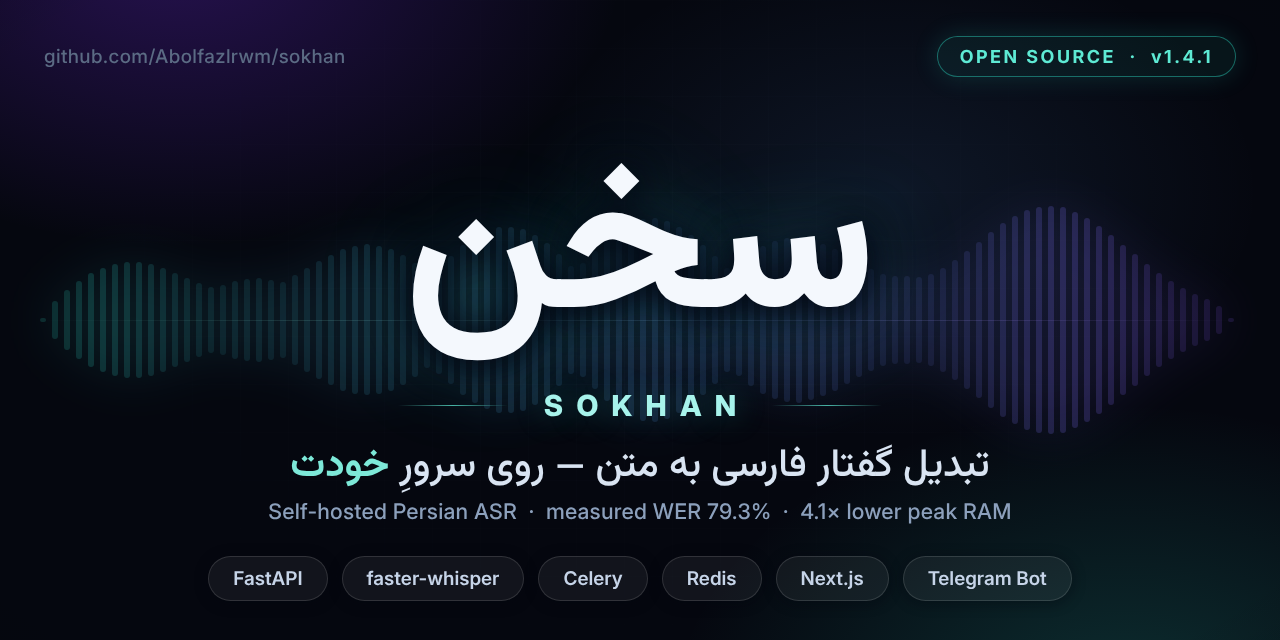
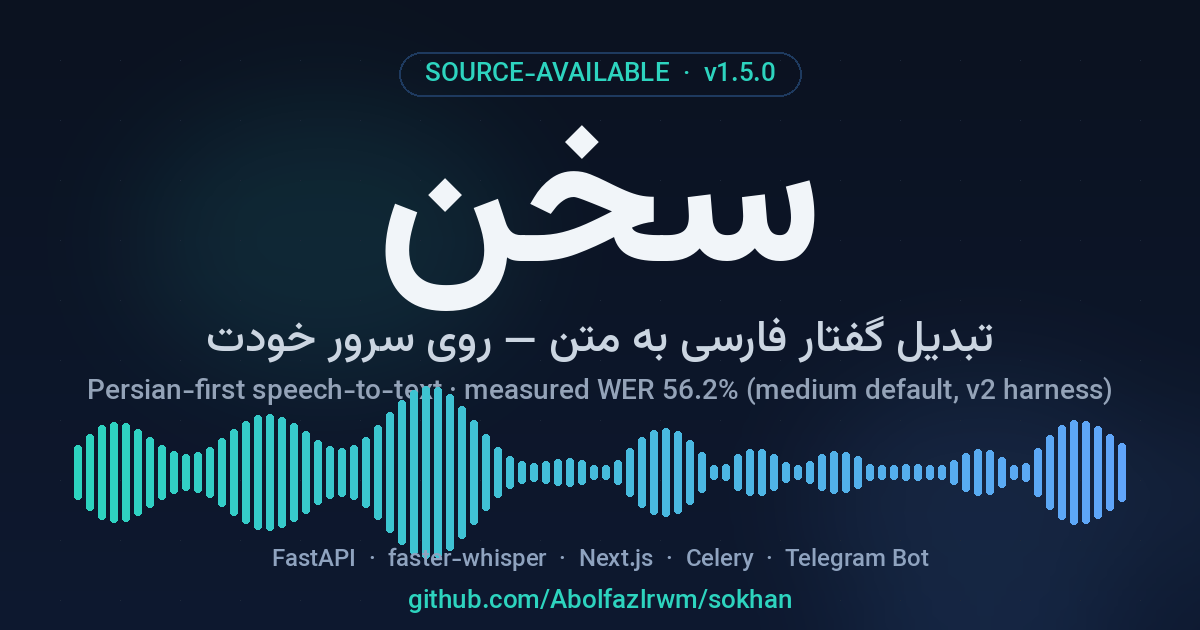
chore(release): v1.5.0 — versions, changelog, citation and social preview
Release prep so the tag-driven pipeline can do its job:
- __version__ 1.4.1 -> 1.5.0 in backend, bot and web package.json, with
  the package-lock root version synced via npm install --package-lock-only
- [1.5.0] - 2026-11-27 consolidates the merged PR stack: four security
  fixes (#36), httpOnly cookie session with CSRF (#41), logout with token
  revocation (#40), live job progress (#42), header account menu (#45),
  landing single CTA (#44), login password toggle (#43), deploy
  self-hosting fixes (#34), upload 503s (#37), punctuation edge cases
  (#38) and the Persian contributing guide (#39) — one section per
  Keep-a-Changelog
- CITATION.cff tracks 1.5.0 / 2026-11-27
- landing eyebrow and the 1200x630 og-image regenerate as v1.5.0; the
  image's WER line now states the measured medium-default number
  (56.2%, v2 harness) instead of the retired fine-tuned-small figure,
  and the pill says SOURCE-AVAILABLE to match the PolyForm license
- extract_release_notes.py verified against the new section (188 lines
  of notes for the workflow to publish)

diff --git a/site/index.html b/site/index.html
@@ -39,7 +39,7 @@
   <!-- ============ hero ============ -->
   <section class="hero">
     <div class="container">
-      <p class="eyebrow">Source-available · free for noncommercial use · v1.4.1</p>
+      <p class="eyebrow">Source-available · free for noncommercial use · v1.5.0</p>
       <h1>گفتار فارسی، به متنِ دقیق —<br><span class="accent">روی سرورِ خودت</span></h1>
       <p class="hero-fa">
         سخن یک کیت کامل تبدیل گفتار به متن است: سرویس FastAPI با موتور

diff --git a/backend/sokhan/__init__.py b/backend/sokhan/__init__.py
@@ -1,1 +1,1 @@
-__version__ = "1.4.1"
+__version__ = "1.5.0"

diff --git a/bot/sokhan_bot/__init__.py b/bot/sokhan_bot/__init__.py
@@ -1,1 +1,1 @@
-__version__ = "1.4.1"
+__version__ = "1.5.0"

diff --git a/CHANGELOG.md b/CHANGELOG.md
@@ -3,7 +3,7 @@
 All notable changes to Sokhan are documented here.
 The format follows [Keep a Changelog](https://keepachangelog.com/) and the project versions with [Semantic Versioning](https://semver.org/).
 
-## [Unreleased]
+## [1.5.0] - 2026-11-27
 
 ### Security
 
